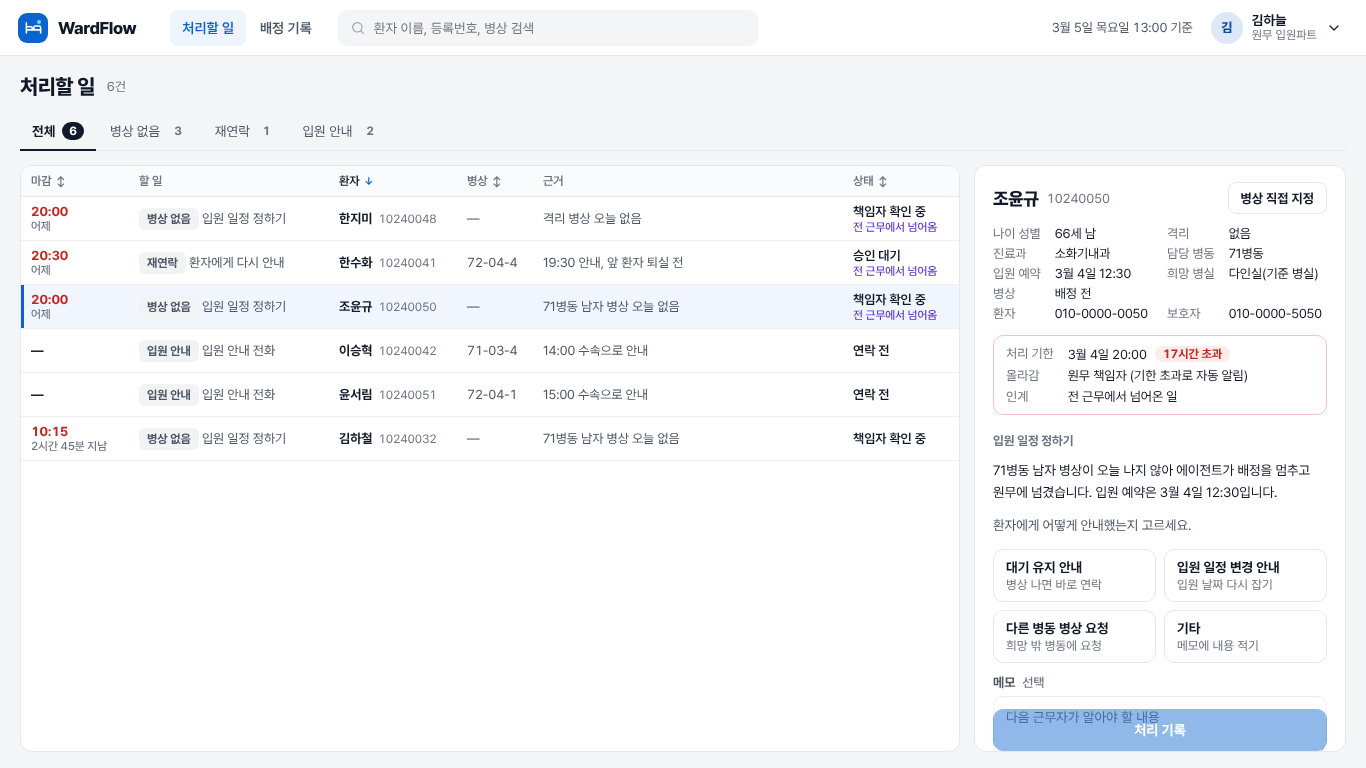
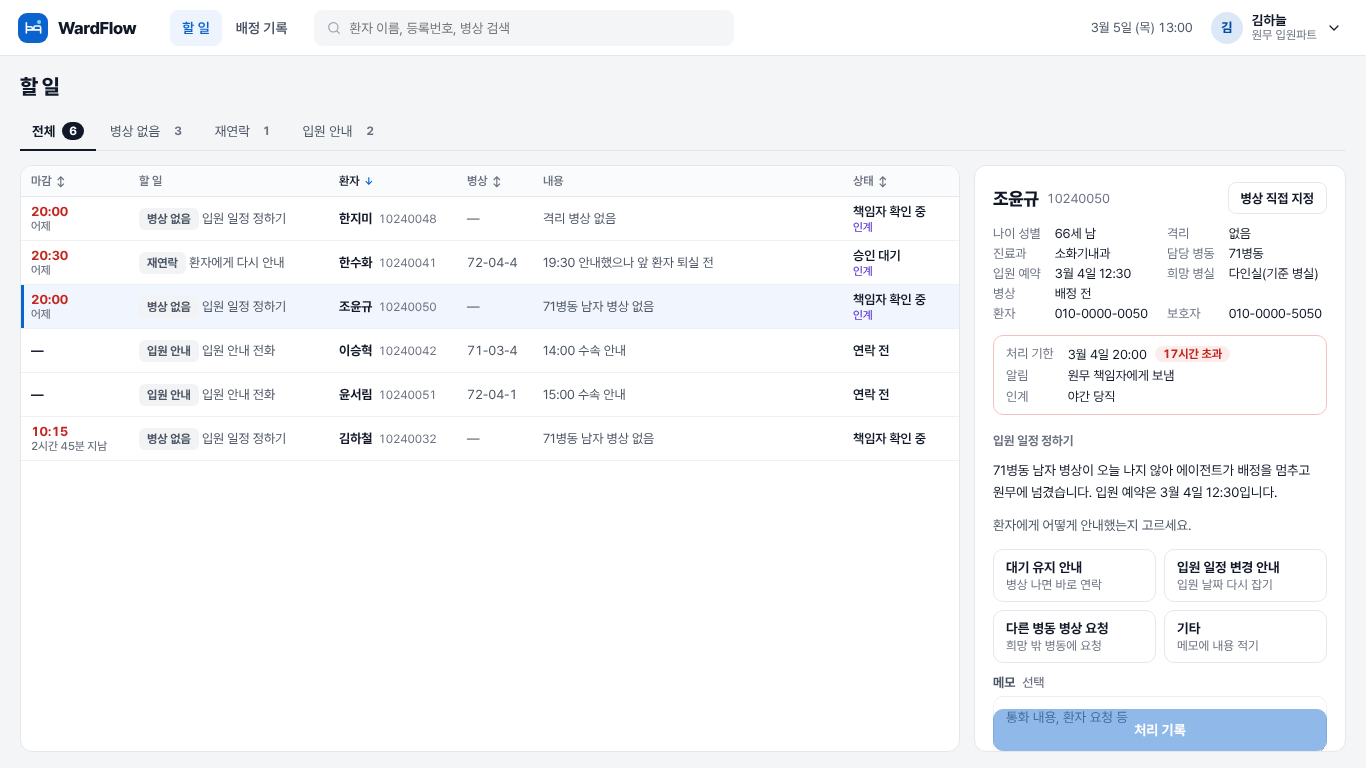
화면 문구 정리(할 일, 내용, 알림, 인계), 실시간 시계, 배정 기록 날짜별 보기, 원무 근무 시간 09-18시로 맞춤
Claude-Session: https://claude.ai/code/session_01LTbFbGTsqcm4pRk2rt9J7f

diff --git a/web/src/pages/Worklist.tsx b/web/src/pages/Worklist.tsx
@@ -10,9 +10,16 @@ const DAYS = ['일', '월', '화', '수', '목', '금', '토']
 const SLOTS = Array.from({ length: 49 }, (_, i) => `${String(8 + Math.floor(i / 4)).padStart(2, '0')}:${String((i % 4) * 15).padStart(2, '0')}`)
 const DECLINE = ['원무가 직접 처리', '환자 사정으로 보류', '병동과 통화로 해결', '기타']
 
-function clock(iso: string) {
-  const d = new Date(iso)
-  return `${d.getMonth() + 1}월 ${d.getDate()}일 ${DAYS[d.getDay()]}요일 ${String(d.getHours()).padStart(2, '0')}:${String(d.getMinutes()).padStart(2, '0')} 기준`
+function clock(d: Date) {
+  return `${d.getMonth() + 1}월 ${d.getDate()}일 (${DAYS[d.getDay()]}) ${String(d.getHours()).padStart(2, '0')}:${String(d.getMinutes()).padStart(2, '0')}`
+}
+
+// 현재 시각: 합성 병원의 시각에서 시작해 실제로 흐른 시간만큼 간다 (데이터는 합성 병원 시각 기준이라 실제 시계를 그대로 쓰지 않는다)
+function useClock(start: string | undefined) {
+  const [base] = useState(() => Date.now())
+  const [, tick] = useState(0)
+  useEffect(() => { const t = setInterval(() => tick(x => x + 1), 15000); return () => clearInterval(t) }, [])
+  return start ? new Date(new Date(start).getTime() + (Date.now() - base)) : null
 }
 
 function dateKo(iso: string) {
@@ -38,7 +45,7 @@ function Memo({ v, set, need }: { v: string; set: (s: string) => void; need: boo
   return (
     <div className="field"><label htmlFor="memo">메모 {need ? <em className="req">필수</em> : <span className="opt">선택</span>}</label>
       <textarea id="memo" rows={2} maxLength={500} value={v} onChange={e => set(e.target.value)}
-        placeholder="다음 근무자가 알아야 할 내용" /></div>
+        placeholder="통화 내용, 환자 요청 등" /></div>
   )
 }
 
@@ -166,6 +173,7 @@ export function Worklist({ user, onLogout, onSwitch }: { user: User; onLogout: (
     return () => window.removeEventListener('keydown', onKey)
   }, [rows, pick])
 
+  const now = useClock(wl?.now)
   const groups = Object.entries(wl?.groups ?? {})
   const all = wl?.counts.all ?? 0
   const sh = shiftShort(shift)
@@ -174,13 +182,13 @@ export function Worklist({ user, onLogout, onSwitch }: { user: User; onLogout: (
       <header className="appbar">
         <div className="brand"><Logo /><b>WardFlow</b></div>
         <nav className="gnav">
-          <button className={page === 'work' ? 'on' : ''} aria-current={page === 'work' ? 'page' : undefined} onClick={() => setPage('work')}>처리할 일</button>
+          <button className={page === 'work' ? 'on' : ''} aria-current={page === 'work' ? 'page' : undefined} onClick={() => setPage('work')}>할 일</button>
           <button className={page === 'log' ? 'on' : ''} aria-current={page === 'log' ? 'page' : undefined} onClick={() => setPage('log')}>배정 기록</button>
         </nav>
         <label className="gsearch"><Icon name="search" small />
           <input ref={search} value={q} onChange={e => setQ(e.target.value)} placeholder="환자 이름, 등록번호, 병상 검색" aria-label="검색" /></label>
         <div className="ab-r">
-          {wl && <span className="clock">{clock(wl.now)}</span>}
+          {now && <span className="clock">{clock(now)}</span>}
           <div className="menu-wrap">
             <button className="user" onClick={() => setMenu(m => !m)} aria-expanded={menu} aria-haspopup="menu"><span className="av">{user.name[0]}</span>
               <span><div className="n">{user.name}</div><div className="r">{user.role_label}</div></span><Icon name="chev" small /></button>
@@ -196,7 +204,7 @@ export function Worklist({ user, onLogout, onSwitch }: { user: User; onLogout: (
       </header>
       <div className="body nosd">
         {page === 'log' ? <AssignmentLog onChange={c => setPicker(c)} key={toast} /> : <main className="main">
-          <div className="ph"><h1>처리할 일</h1><span className="meta">{all}건</span></div>
+          <div className="ph"><h1>할 일</h1></div>
           <div className="tabs" role="tablist">
             {[['all', all] as [string, number], ...groups].map(([g, n]) => (
               <button key={g} role="tab" aria-selected={tab === g} className={'tab' + (tab === g ? ' on' : '')} onClick={() => setTab(g)}>
@@ -206,10 +214,10 @@ export function Worklist({ user, onLogout, onSwitch }: { user: User; onLogout: (
           <div className="work">
             <section className="grid">
               <div className="tbody">
-                {rows.length === 0 ? <div className="empty">처리할 일이 없습니다</div> : (
+                {rows.length === 0 ? <div className="empty">할 일이 없습니다</div> : (
                   <table>
                     <colgroup><col style={{ width: 108 }} /><col style={{ width: 200 }} /><col style={{ width: 128 }} /><col style={{ width: 76 }} /><col /><col style={{ width: 116 }} /></colgroup>
-                    <thead><tr>{th('due')}<th>할 일</th>{th('patient')}{th('bed')}<th>근거</th>{th('status')}</tr></thead>
+                    <thead><tr>{th('due')}<th>할 일</th>{th('patient')}{th('bed')}<th>내용</th>{th('status')}</tr></thead>
                     <tbody>
                       {rows.map(r => (
                         <tr key={r.id} className={'row' + (r.id === pick ? ' pick' : '')} tabIndex={0} onClick={() => setPick(r.id)}
@@ -219,7 +227,7 @@ export function Worklist({ user, onLogout, onSwitch }: { user: User; onLogout: (
                           <td className="pt"><b>{r.patient}</b><span className="id">{r.patient_id}</span></td>
                           <td className="mono">{r.bed || '—'}</td>
                           <td className="sub">{r.reason}</td>
-                          <td className="st">{r.status}{r.carried && <small>전 근무에서 넘어옴</small>}</td>
+                          <td className="st">{r.status}{r.carried && <small>인계</small>}</td>
                         </tr>
                       ))}
                     </tbody>
@@ -244,8 +252,8 @@ export function Worklist({ user, onLogout, onSwitch }: { user: User; onLogout: (
                   {cur.due_at && wl && (
                     <dl className={'sla' + (cur.late ? ' over' : '')}>
                       <dt>처리 기한</dt><dd>{dateKo(cur.due_at)}<span className="pill">{overdue(cur.due_at, wl.now)}</span></dd>
-                      {cur.status === '책임자 확인 중' && <><dt>올라감</dt><dd>원무 책임자 (기한 초과로 자동 알림)</dd></>}
-                      {cur.carried && <><dt>인계</dt><dd>전 근무에서 넘어온 일</dd></>}
+                      {cur.status === '책임자 확인 중' && <><dt>알림</dt><dd>원무 책임자에게 보냄</dd></>}
+                      {cur.carried && <><dt>인계</dt><dd>야간 당직</dd></>}
                     </dl>)}
                   {pt.notes.length > 0 && (<>
                     <div className="lab">특이사항</div>

diff --git a/web/src/pages/AssignmentLog.tsx b/web/src/pages/AssignmentLog.tsx
@@ -1,18 +1,32 @@
 import { useEffect, useState } from 'react'
 import { api, type Assignment } from '../api'
 
+const DAYS = ['일', '월', '화', '수', '목', '금', '토']
+const dayKo = (d: string) => { const x = new Date(d + 'T00:00'); return `${x.getMonth() + 1}월 ${x.getDate()}일 (${DAYS[x.getDay()]})` }
+
 const STATE_TONE: Record<string, string> = { '입실 대기': 't-blue', '입실 완료': 't-green', '되돌림': 't-gray', '취소': 't-gray' }
 
-// 배정 기록: 에이전트와 사람이 확정한 배정을 최근 순으로. 누가 어떤 근거로 확정했는지, 되돌릴 수 있는지, 지금 상태.
+// 배정 기록: 에이전트와 사람이 확정한 배정을 하루 단위, 최근 순으로. 누가 어떤 근거로 확정했는지, 되돌릴 수 있는지, 지금 상태.
 export function AssignmentLog({ onChange }: { onChange: (caseId: string) => void }) {
   const [rows, setRows] = useState<Assignment[] | null>(null)
   const [who, setWho] = useState<'all' | 'agent' | 'human'>('all')
-  useEffect(() => { api.assignments().then(r => setRows(r.rows)).catch(() => setRows([])) }, [])
+  const [day, setDay] = useState<string | null>(null)
+  const [days, setDays] = useState<string[]>([])
+  useEffect(() => {
+    api.assignments(day ?? undefined).then(r => { setRows(r.rows); setDays(r.days); if (!day) setDay(r.day) }).catch(() => setRows([]))
+  }, [day])
+  const i = day ? days.indexOf(day) : -1  // days는 최근 날짜가 앞
   const list = (rows ?? []).filter(r => who === 'all' || (who === 'agent') === (r.by === '에이전트'))
   const n = (f: (r: Assignment) => boolean) => (rows ?? []).filter(f).length
   return (
     <main className="main">
-      <div className="ph"><h1>배정 기록</h1><span className="meta">어제와 오늘 {rows?.length ?? 0}건</span></div>
+      <div className="ph"><h1>배정 기록</h1>
+        <div className="datenav">
+          <button className="iconbtn" aria-label="이전 날짜" disabled={i < 0 || i >= days.length - 1} onClick={() => setDay(days[i + 1])}>‹</button>
+          <select aria-label="날짜" value={day ?? ''} onChange={e => setDay(e.target.value)}>{days.map(d => <option key={d} value={d}>{dayKo(d)}</option>)}</select>
+          <button className="iconbtn" aria-label="다음 날짜" disabled={i <= 0} onClick={() => setDay(days[i - 1])}>›</button>
+        </div>
+      </div>
       <div className="tabs" role="tablist">
         {([['all', '전체', n(() => true)], ['agent', '에이전트 확정', n(r => r.by === '에이전트')], ['human', '사람 확정', n(r => r.by !== '에이전트')]] as const).map(([k, l, c]) => (
           <button key={k} role="tab" aria-selected={who === k} className={'tab' + (who === k ? ' on' : '')} onClick={() => setWho(k)}>{l} <span className="n">{c}</span></button>
@@ -23,7 +37,7 @@ export function AssignmentLog({ onChange }: { onChange: (caseId: string) => void
           {rows && list.length === 0 ? <div className="empty">배정 기록이 없습니다</div> : (
             <table>
               <colgroup><col style={{ width: 108 }} /><col style={{ width: 150 }} /><col style={{ width: 150 }} /><col style={{ width: 100 }} /><col /><col style={{ width: 120 }} /><col style={{ width: 100 }} /><col style={{ width: 96 }} /></colgroup>
-              <thead><tr><th>확정 시각</th><th>환자</th><th>병상</th><th>확정</th><th>근거</th><th>되돌리기</th><th>상태</th><th></th></tr></thead>
+              <thead><tr><th>확정 시각</th><th>환자</th><th>병상</th><th>확정</th><th>배정 이유</th><th>되돌리기</th><th>상태</th><th></th></tr></thead>
               <tbody>{list.map(r => (
                 <tr key={r.at + r.case} className="row">
                   <td className="due">{r.time}</td>

diff --git a/web/src/shifts.ts b/web/src/shifts.ts
@@ -1,4 +1,4 @@
-// 근무조. 간호는 3교대, 원무 입원 창구는 주간 근무와 야간 당직(설계 가정: 공개 근거를 찾지 못함, docs/DECISIONS.md 2026-11-10).
+// 근무조. 간호는 3교대, 원무 입원 창구는 주간(09–18시, 서울대병원 입원 창구 안내, config/operations.yaml office_hours)과 야간 당직(설계 가정).
 type Shift = { id: string; label: string; short: string }
 const NURSE: Shift[] = [
   { id: 'day', label: '낮 07:00–15:00', short: '낮 근무' },
@@ -6,8 +6,8 @@ const NURSE: Shift[] = [
   { id: 'night', label: '밤 23:00–07:00', short: '밤 근무' },
 ]
 const OFFICE: Shift[] = [
-  { id: 'office', label: '주간 08:30–17:30', short: '주간 근무' },
-  { id: 'night_duty', label: '야간 당직 17:30–08:30', short: '야간 당직' },
+  { id: 'office', label: '주간 09:00–18:00', short: '주간 근무' },
+  { id: 'night_duty', label: '야간 당직 18:00–09:00', short: '야간 당직' },
 ]
 export const shiftsFor = (role: string) => (role === 'ward' ? NURSE : OFFICE)
 export const shiftShort = (id: string | null) => [...NURSE, ...OFFICE].find(s => s.id === id)?.short ?? ''

diff --git a/web/src/api.ts b/web/src/api.ts
@@ -58,7 +58,7 @@ export const api = {
   worklist: () => call<Worklist>('/api/worklist'),
   beds: (c: string) => call<Board>(`/api/beds?case=${encodeURIComponent(c)}`),
   assign: (c: string, bed: string, reason: string, memo: string) => call('/api/assign', { method: 'POST', body: JSON.stringify({ case: c, bed, reason, memo }) }),
-  assignments: () => call<{ now: string; rows: Assignment[] }>('/api/assignments'),
+  assignments: (day?: string) => call<{ now: string; day: string; days: string[]; rows: Assignment[] }>(`/api/assignments${day ? `?day=${day}` : ''}`),
   patient: (c: string) => call<Patient>(`/api/patients/${encodeURIComponent(c)}`),
   contact: (c: string, outcome: 'done' | 'no_answer', promised_at: string, memo: string) =>
     call(`/api/contacts/${encodeURIComponent(c)}`, { method: 'POST', body: JSON.stringify({ outcome, promised_at, memo }) }),

diff --git a/web/src/styles.css b/web/src/styles.css
@@ -255,3 +255,6 @@ tr.row.pick td:first-child { box-shadow: inset 3px 0 0 var(--brand); }
 .bd.no { background: #F8F9FA; cursor: not-allowed; } .bd.no b { color: var(--mute); }
 .bd:not(.no):hover { background: var(--hover); } .bd.on { outline: 2px solid var(--brand); }
 .facts .wide { grid-column: span 3; }
+.datenav { display: flex; align-items: center; gap: 4px; margin-left: 8px; }
+.datenav select { height: 34px; border: 1px solid var(--line); border-radius: 8px; padding: 0 10px; font: inherit; font-size: 13.5px; background: #fff; }
+.datenav .iconbtn { width: 34px; height: 34px; font-size: 18px; } .datenav .iconbtn:disabled { opacity: .35; }

diff --git a/src/turnaround/api/worklist.py b/src/turnaround/api/worklist.py
@@ -116,7 +116,7 @@ def admission_rows(st) -> dict:
         if x["action"] == "request_recontact":
             when = _promised(x["situation"])
             label, action = "재연락", "환자에게 다시 안내"
-            reason = f"{when} 안내, 앞 환자 퇴실 전" if when else (x["trigger_ko"] or _short(x["situation"]))
+            reason = f"{when} 안내했으나 앞 환자 퇴실 전" if when else (x["trigger_ko"] or _short(x["situation"]))
         else:
             label = {"propose_rematch": "병상 변경", "request_postpone_contact": "연락 보류"}.get(x["action"], "승인")
             action, reason = x["action_ko"], x["trigger_ko"] or _short(x["situation"])
@@ -128,7 +128,7 @@ def admission_rows(st) -> dict:
             effect="감염관리실이 병상을 결정하면 환자 재연락 작업이 생깁니다")
     for x in a["contacts"]:
         tries = sum(1 for n in notes(ev, x["case"]) if n["tag"] == "contact_no_answer")
-        reason = f"{x['suggest_at']:%H:%M} 수속으로 안내" + (f", 연락 안 됨 {tries}회" if tries else "")
+        reason = f"{x['suggest_at']:%H:%M} 수속 안내" + (f", 연락 안 됨 {tries}회" if tries else "")
         add(x["case"], "contact", "입원 안내", "입원 안내 전화", None, False, x["bed"], reason,
             "다시 연락" if tries else "연락 전", suggest_at=f"{x['suggest_at']:%H:%M}",
             situation=f"{x['bed_ko']} 병상이 {x['committed']}에 확정됐습니다. 수속 시각과 병동을 안내하세요.")
@@ -143,7 +143,7 @@ def admission_rows(st) -> dict:
             need = "격리 병상" if pp.get("precautions") else " ".join(x for x in (f"{ward}병동" if ward else "",
                                                                                  f"{sex}자" if sex else "") if x) + " 병상"
             label, action = "병상 없음", "입원 일정 정하기"
-            reason = f"{need} 오늘 없음" if hint in ("오늘 비는 병상 없음", "후보 병상 없음") else f"{need}, {hint}"
+            reason = f"{need} 없음" if hint in ("오늘 비는 병상 없음", "후보 병상 없음") else f"{need}, {hint}"
             req = pp.get("requested_at")
             more = {"choices": NO_BED_CHOICES,
                     "situation": f"{need}이 오늘 나지 않아 에이전트가 배정을 멈추고 원무에 넘겼습니다."
@@ -256,8 +256,10 @@ def _basis(text: str) -> str:
     return ", ".join(BASIS_KO[k] for k in keys if k in BASIS_KO) or "배정 기준 충족"
 
 
-def assignments(st, accounts: dict | None = None, days: int = 2) -> dict:
-    """에이전트와 사람이 확정한 배정 기록 (최근 것이 위). 확정 주체, 근거, 되돌리기 시한, 지금 상태."""
+def assignments(st, accounts: dict | None = None, day: str | None = None) -> dict:
+    """에이전트와 사람이 확정한 배정 기록 (최근 것이 위). 하루 단위로 본다(day=YYYY-MM-DD, 없으면 오늘).
+    확정 주체, 근거, 되돌리기 시한, 지금 상태. days: 기록이 있는 날짜 목록(날짜 고르기용)."""
+    from datetime import date as _date
     from turnaround.saga import fold
     ev = st.store.read()
     people = views._people(ev)
@@ -266,9 +268,12 @@ def assignments(st, accounts: dict | None = None, days: int = 2) -> dict:
     cancelled = {e.case_id for e in ev if e.type is EventType.ADMISSION_CANCELLED and e.observed_at <= st.now}
     # 사람 직접 배정(manual_override): 확정 사건의 proposal_id(mo…)로 누가 어떤 사유로 했는지 찾는다
     manual = {e.event_id.split(":")[1]: e.payload for e in ev if e.type is EventType.MANUAL_OVERRIDE_APPLIED}
+    want = _date.fromisoformat(day) if day else st.now.date()
+    days = sorted({e.observed_at.date().isoformat() for e in ev if e.type is EventType.MATCH_COMMITTED and e.observed_at <= st.now},
+                  reverse=True)
     rows = []
     for e in ev:
-        if e.type is not EventType.MATCH_COMMITTED or e.observed_at > st.now or (st.now.date() - e.observed_at.date()).days >= days:
+        if e.type is not EventType.MATCH_COMMITTED or e.observed_at > st.now or e.observed_at.date() != want:
             continue
         bed = e.payload.get("bed_id")
         n = note.get(e.payload.get("proposal_id"))
@@ -286,11 +291,11 @@ def assignments(st, accounts: dict | None = None, days: int = 2) -> dict:
         by = "에이전트" if e.payload.get("committed_by") == "agent" else (accounts or {}).get(actor, {}).get("name", "원무")
         if mo:
             from turnaround.api.beds import REASON_CODES
-        rows.append({"at": e.observed_at.isoformat(timespec="minutes"), "time": views._hm(e.observed_at), "case": e.case_id,
+        rows.append({"at": e.observed_at.isoformat(timespec="minutes"), "time": e.observed_at.strftime("%H:%M"), "case": e.case_id,
                      **_person(people, e.case_id), "bed": views.bed_ko(bed), "bed_short": _bed(bed), "by": by,
                      "basis": f"직접 지정, {REASON_CODES.get(mo.get('reason_code'), '사유 없음')}" if mo else _basis(b.get("rationale", "")),
                      "runner_up": views.bed_ko(b["runner_up"]) if b.get("runner_up") else "",
-                     "undo_until": views._hm(until) if until else "", "undo_open": bool(until and st.now < until and state == "입실 대기"),
+                     "undo_until": until.strftime("%H:%M") if until else "", "undo_open": bool(until and st.now < until and state == "입실 대기"),
                      "state": state})
     rows.sort(key=lambda r: r["at"], reverse=True)
-    return {"now": st.now.isoformat(timespec="minutes"), "rows": rows}
+    return {"now": st.now.isoformat(timespec="minutes"), "day": want.isoformat(), "days": days, "rows": rows}

diff --git a/tests/test_api.py b/tests/test_api.py
@@ -153,6 +153,12 @@ def test_assignment_log_lists_agent_and_human_commits(client):
     assert all(x["state"] in {"입실 완료", "입실 대기", "되돌림", "취소"} for x in rows)
     assert [x["at"] for x in rows] == sorted((x["at"] for x in rows), reverse=True)  # 최근 것이 위
     assert client.get("/api/assignments", headers=_login(client, "ward71-park")).status_code == 403
+    # 날짜별로 본다: 기록이 있는 날짜 목록이 오고, 어제를 고르면 어제 확정만 나온다
+    d = r.json()
+    assert d["day"] == d["days"][0] and len(d["days"]) >= 2
+    y = client.get(f"/api/assignments?day={d['days'][1]}", headers=h).json()
+    assert y["rows"] and all(x["at"].startswith(d["days"][1]) for x in y["rows"])
+    assert client.get("/api/assignments?day=어제", headers=h).status_code == 422
 
 
 # ---- 병상 직접 배정 (현황판 + 추천 후보, 게이트웨이 사전 검사) ----

diff --git a/src/turnaround/api/app.py b/src/turnaround/api/app.py
@@ -315,10 +315,16 @@ def create_app() -> FastAPI:
         return {"ok": True, "tier": d.tier}
 
     @app.get("/api/assignments")
-    def assignment_log(s: Session = Depends(session)):
+    def assignment_log(day: str | None = None, s: Session = Depends(session)):
+        from datetime import date as _date
+
         from turnaround.api.worklist import assignments
         admission_only(s)
-        out = assignments(store.demo(), store.accounts)
+        try:
+            _date.fromisoformat(day) if day else None
+        except ValueError:
+            raise HTTPException(422, "날짜는 YYYY-MM-DD로 적어 주세요") from None
+        out = assignments(store.demo(), store.accounts, day)
         store.log(s, "목록 조회", detail="배정 기록")
         return out
 
